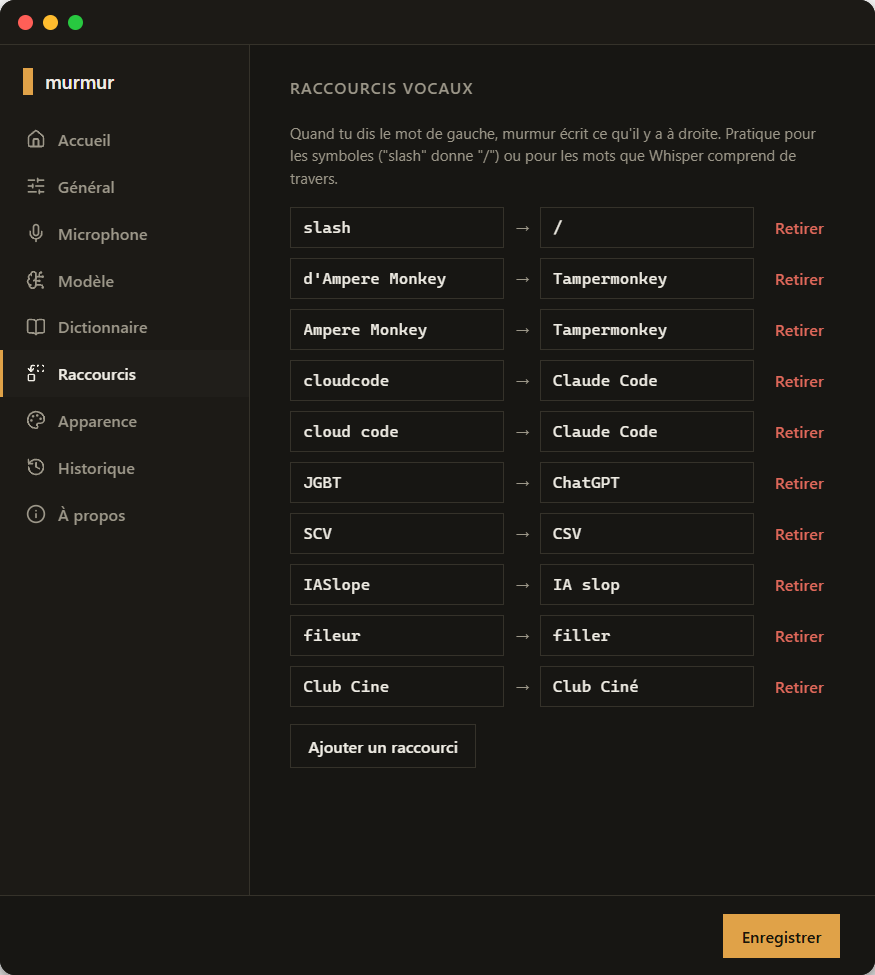
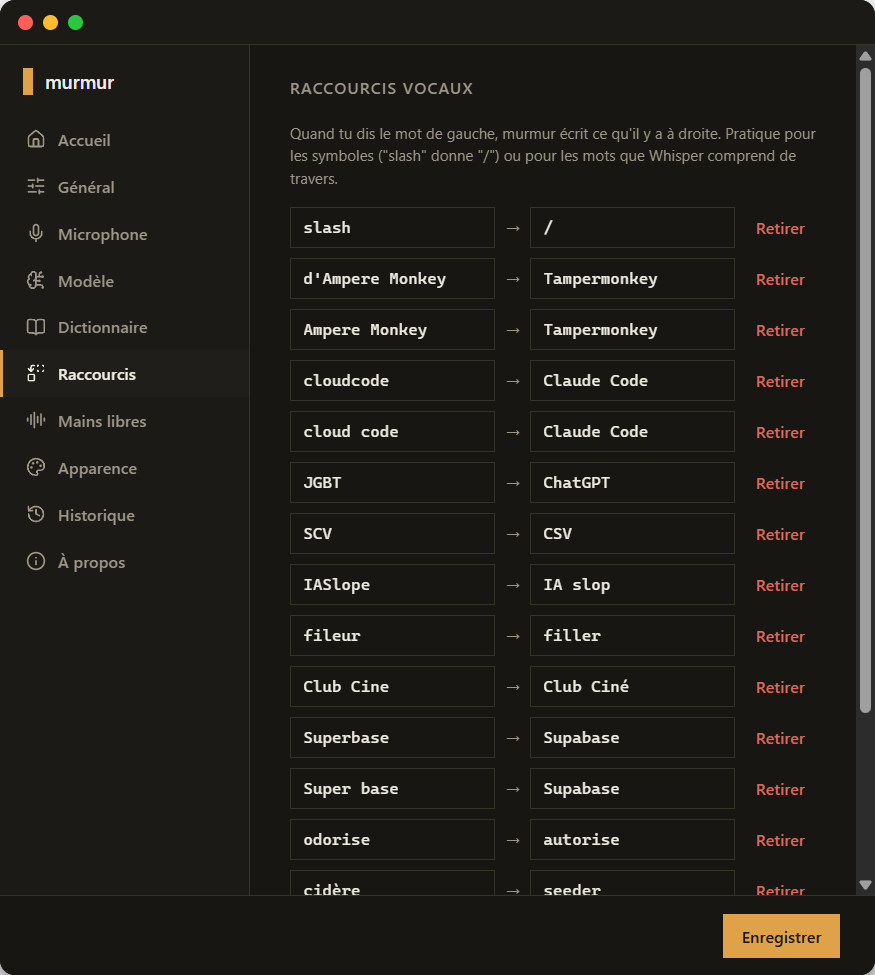
📝 docs: document hands-free mode with a new screenshot

diff --git a/README.md b/README.md
@@ -29,6 +29,19 @@ Appuie sur `Ctrl+Espace`, une pastille apparaît en bas de l'écran et t'écoute
 
 Elle reconnaît le français avec des mots anglais mêlés dedans sans les traduire (« il faut update le README avant la deadline »), et tu peux lui apprendre tes propres termes techniques ou noms propres dans le dictionnaire.
 
+## 🗣 Mode mains libres
+
+Plus besoin de toucher au clavier : dis « murmur start », un petit bip confirme que murmur t'écoute, puis parle. Pour finir, dis « murmur stop », ou tais-toi quelques secondes, et le texte se colle tout seul. Tu peux aussi tout enchaîner d'une traite : « murmur start, je voulais te dire… ».
+
+<div align="center">
+<img src="docs/screenshot-hands-free.png" width="600" alt="L'onglet Mains libres des réglages, avec l'interrupteur, le délai de silence et le voyant d'écoute" />
+</div>
+
+Ça s'active dans Réglages → **Mains libres**. Un voyant montre en direct si murmur t'entend, et la dernière phrase qu'il a comprise, pratique pour vérifier que « murmur start » passe bien. Le micro reste ouvert tant que le mode est activé, mais rien ne sort de ta machine : un petit détecteur de voix tourne en local, et seules tes phrases courtes passent par Whisper pour repérer la commande. En jeu plein écran, tout se met en pause.
+
+> [!TIP]
+> Avec un casque Bluetooth, garder le micro ouvert fait passer le son en qualité « appel téléphonique ». Ce mode est surtout fait pour un micro séparé (USB, micro du PC).
+
 ## 🔀 Raccourcis vocaux
 
 Tu dis un mot, murmur en écrit un autre. Dis « slash usage » et tu obtiens `/usage`, pratique pour taper une commande sans toucher au clavier. Ça sert aussi à rattraper les mots que Whisper comprend toujours de travers : s'il entend « cloud code » à chaque fois, un raccourci le remplace par « Claude Code ».
@@ -45,7 +58,7 @@ Vitesse moyenne, mots dictés cette semaine, apps utilisées, temps gagné par r
 
 ## ⚙ Réglages
 
-Clic droit sur l'icône de la barre système → **Réglages**. Tout est dans la barre latérale : raccourci clavier, choix du micro, choix du modèle Whisper, dictionnaire personnel, raccourcis vocaux, position et couleur de la pastille, historique des dictées.
+Clic droit sur l'icône de la barre système → **Réglages**. Tout est dans la barre latérale : raccourci clavier, choix du micro, choix du modèle Whisper, dictionnaire personnel, raccourcis vocaux, mode mains libres, position et couleur de la pastille, historique des dictées.
 
 ## 📥 Installation
 
@@ -134,7 +147,7 @@ pnpm build:win                            # génère l'installeur dans dist/
 
 Pour publier une version : monte `version` dans `package.json`, lance `pnpm build:win`, puis joins à une release GitHub les trois fichiers de `dist/` (l'installeur `.exe`, son `.blockmap` et `latest.yml`). S'il en manque un, la mise à jour automatique ne verra pas la nouvelle version.
 
-Pour refaire les captures du README : `MURMUR_SCREENSHOT=docs pnpm dev`. L'app photographie elle-même ses fenêtres (Accueil, Raccourcis, pastille) sans ouvrir le micro, enregistre les PNG dans le dossier donné, puis se ferme.
+Pour refaire les captures du README : `MURMUR_SCREENSHOT=docs pnpm dev`. L'app photographie elle-même ses fenêtres (Accueil, Raccourcis, Mains libres, pastille) avec un faux micro, enregistre les PNG dans le dossier donné, puis se ferme.
 
 | Dossier                  | Rôle                                                                 |
 | ------------------------ | --------------------------------------------------------------------- |
